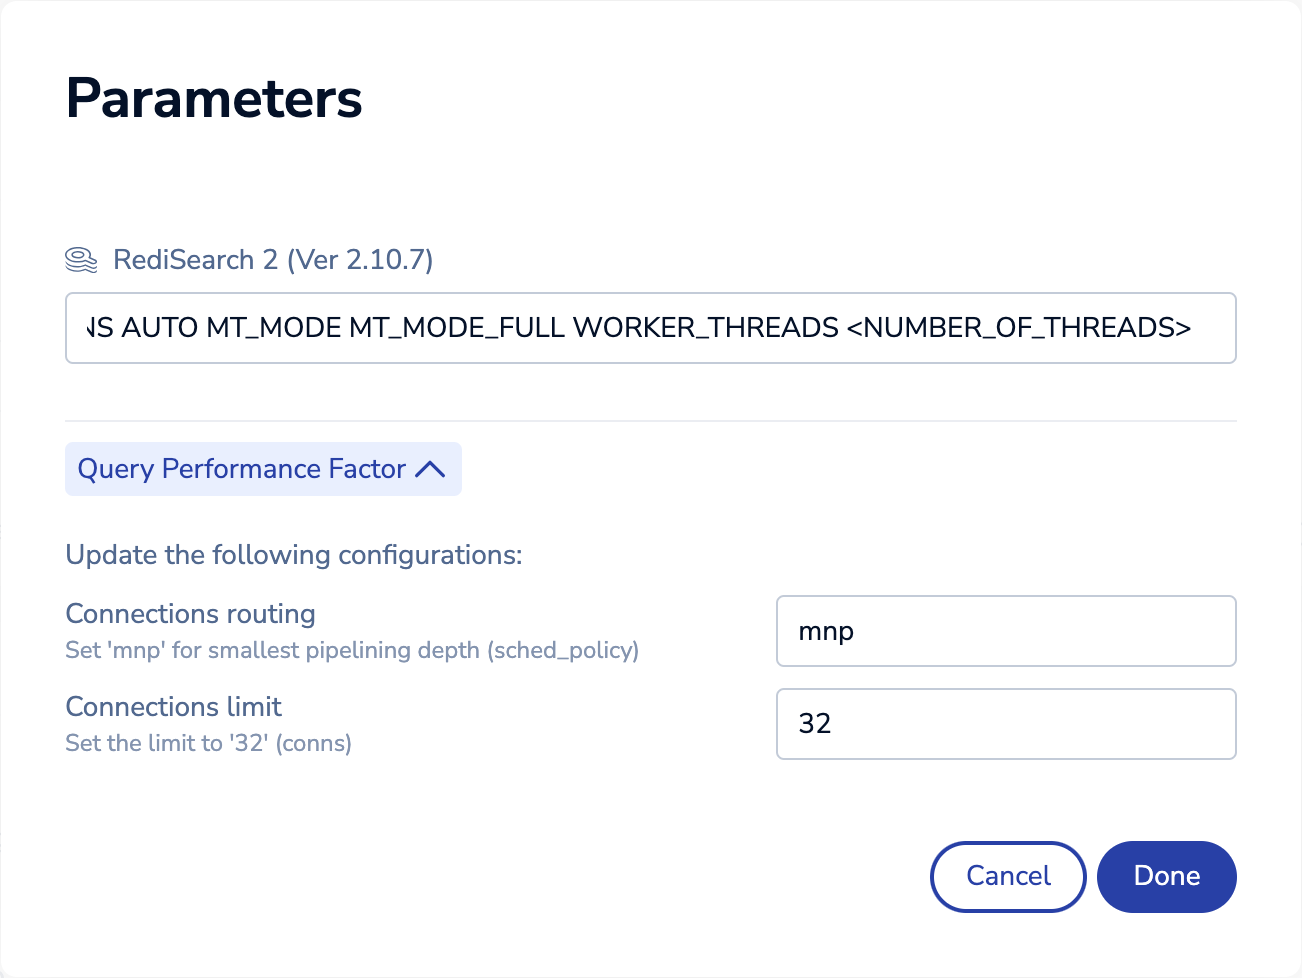
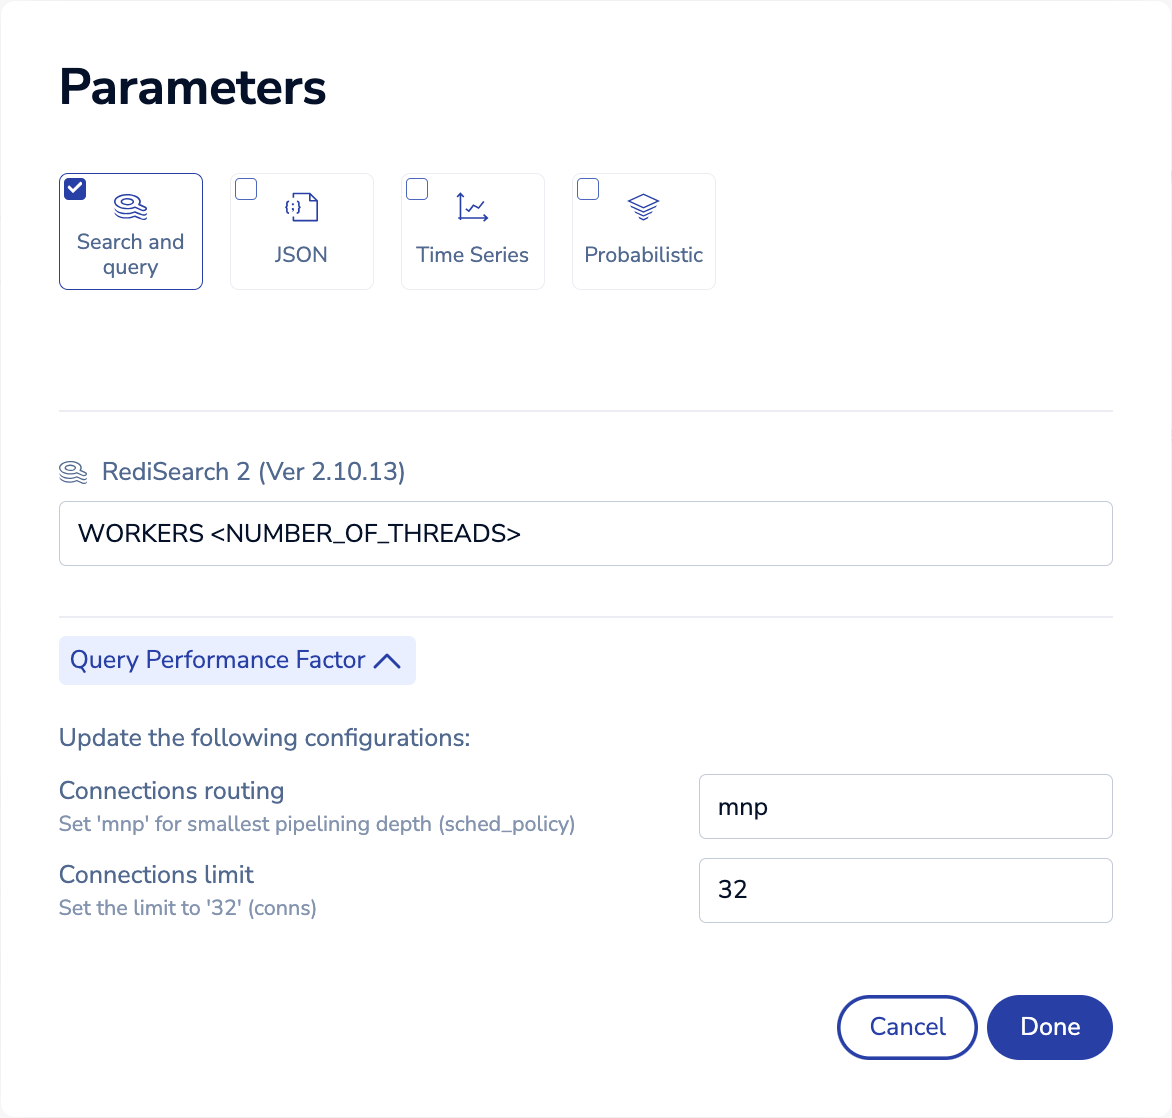
Update query-performance-factor.md (#1539)
* Update query-performance-factor.md

Fixing the BDB API and linking Workers with CPUs

* Updated RS CM UI query performance factor config screenshot

* Fixed broken in-page anchor links to calculate query performance factor

---------

diff --git a/content/operate/oss_and_stack/stack-with-enterprise/search/query-performance-factor.md b/content/operate/oss_and_stack/stack-with-enterprise/search/query-performance-factor.md
@@ -32,7 +32,7 @@ If you do not have a cluster that supports Redis Query Engine, [install Redis En
 
     1. Calculate the RAM requirements using the [Index Size Calculator](https://redis.io/redisearch-sizing-calculator/). The total RAM required is the sum of the dataset and index sizes.
 
-1. [Determine the query performance factor](#calculate-performance-factor) you want and the required number of CPUs. Unused CPUs, above the 20% necessary for Redis, can be used for the scalable Redis Query Engine.
+1. [Determine the query performance factor](#calculate-query-performance-factor) you want and the required number of CPUs. Unused CPUs, above the 20% necessary for Redis, can be used for the scalable Redis Query Engine.
 
 1. Create a new Redis database with the number of CPUs configured for the query performance factor.
 
@@ -52,7 +52,7 @@ Vertical scaling of the Redis Query Engine is achieved by provisioning additiona
 
 The following table shows the number of CPUs required for each performance factor. This calculation is sensitive to how the search index and queries are defined. Certain scenarios might yield less throughput than the ratios in the following table.
 
-| Scale factor | Minimum CPUs required for Redis Query Engine |
+| Scale factor | Minimum CPUs required for Redis Query Engine <WORKERS> |
 |----------------|-----------------------------------------|
 | None (default) | 1 |
 | 2 | 3 |
@@ -71,7 +71,7 @@ The following table shows the number of CPUs required for each performance facto
 | CPUs per node | 8 |
 | Available CPUs | floor(0.8 * 8)=6 |
 | Scale factor | 4x |
-| Minimum CPUs required for scale factor | 6 |
+| Minimum CPUs required for scale factor - WORKERS | 6 |
 
 ## Configure query performance factor manually
 
@@ -168,12 +168,12 @@ To create a database and configure the query performance factor, use the [create
     "conns": 32,
     "module_list": [{
         "module_name": "search",
-        "module_args": "MT_MODE MT_MODE_FULL WORKER_THREADS <NUMBER_OF_CPUS>"
+        "module_args": "WORKERS <NUMBER_OF_THREADS>"
     }]
 }
 ```
 
-See [Calculate performance factor](#calculate-performance-factor) to determine the value to use for `<NUMBER_OF_CPUS>`.
+See [Calculate performance factor](#calculate-query-performance-factor) to determine the value to use for `<NUMBER_OF_CPUS>`.
 
 #### Example REST API request for a new database
 
@@ -196,7 +196,7 @@ The following JSON is an example request body used to create a new database with
     "replication": false,
     "module_list": [{
         "module_name": "search",
-        "module_args": "MT_MODE MT_MODE_FULL WORKER_THREADS 6"
+        "module_args": "WORKERS 6"
     }]
 }
 ```
@@ -239,7 +239,7 @@ curl -o /dev/null -s -k -u "<user>:<password>" https://<host>:9443/v1/bdbs/$DB_I
     "modules": [
       {
         "module_name": "search",
-        "new_module_args": "MT_MODE MT_MODE_FULL WORKER_THREADS '$CPU'",
+        "new_module_args": "WORKERS '$CPU'",
         "current_module": "'$MODULE_ID'",
         "new_module": "'$MODULE_ID'"
       }
